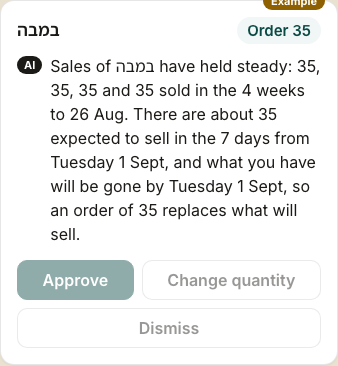
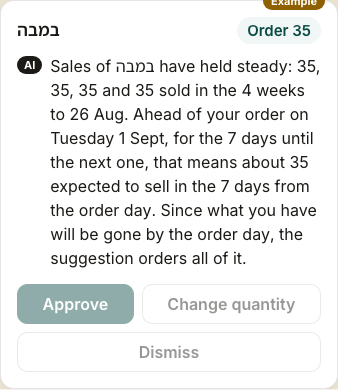
Redraw the F14 mockups on F14-S1's final phrases and fix the sample wording
The repository owner saw problems in the cards' text, and F14-S1 (b4a1285) settled its phrases:
- the date repeated: each phrase named its own, so the water card said "Sunday 30 Aug" three
  times. Only {next_order} carries it now ("your order on Sunday 30 Aug, for the 7 days until the
  next one"), every text uses it once, and the others say "the order day", in Hebrew and Arabic
  in the construct form (יום ההזמנה, يوم الطلب), never היום or اليوم, which the check reads as
  "today";
- Arabic لـ was glued to Hebrew names ("لـלחם אחיד"); the samples use لدى or مبيعات instead;
- "which covers 7 days" read as untrue beside a capped order, and a sentence going on after it
  lacked its closing comma; the phrase now ends "until the next one", and the English samples
  open "Ahead of" or "In" before it, so it never reads "for ... for".

Every sample is still HAND-WRITTEN, labelled so, and passes a scratch re-implementation of
FR-238 and Appendix A at b4a1285, which catches 15 planted failures and passes the 5 listed
exceptions. Each card's words were measured on screen in Hebrew and Arabic and read in order
from right to left.

Verified: npx vitest run, 721 passed; npm run lint clean.

diff --git a/src/pages/ReorderPage.jsx b/src/pages/ReorderPage.jsx
@@ -56,7 +56,8 @@ function slotPhrases(entry, window, t, language, dates) {
   const out = {
     product: entry.product_name || entry.barcode,
     quantity: t('reorder.ai.slot.quantity', { n: ev.quantity }),
-    expected: t('reorder.ai.slot.expected', { expected: one(ev.expected_sales), days: daysText(ev.cycle.days, language), day: dates.day(ev.cycle.first_day) }),
+    // Only {next_order} carries the date; the others say "the order day", so no text repeats it.
+    expected: t('reorder.ai.slot.expected', { expected: one(ev.expected_sales), days: daysText(ev.cycle.days, language) }),
     next_order: t('reorder.ai.slot.nextOrder', { day: dates.day(ev.order_day), days: daysText(ev.cycle.days, language) }),
   }
   if (ev.weekly_units?.length && window?.last_day) {
@@ -64,8 +65,8 @@ function slotPhrases(entry, window, t, language, dates) {
     out.weeks = t('reorder.ai.slot.weeks', { list, weeks: weeksText(ev.weekly_units.length, language), date: dates.short(window.last_day) })
   }
   if (ev.kind === 'net' && ev.stock_at_order_day != null) {
-    if (ev.stock_at_order_day > 0.05) out.left = t('reorder.ai.slot.left', { left: one(ev.stock_at_order_day), day: dates.day(ev.order_day) })
-    else out.runs_out = t('reorder.ai.slot.runsOut', { day: dates.day(ev.order_day) })
+    if (ev.stock_at_order_day > 0.05) out.left = t('reorder.ai.slot.left', { left: one(ev.stock_at_order_day) })
+    else out.runs_out = t('reorder.ai.slot.runsOut')
   }
   if (ev.capped && ev.shelf_life?.days) out.capped = t('reorder.ai.slot.capped', { days: daysText(ev.shelf_life.days, language) })
   return out

diff --git a/src/lib/i18n/dictionaries/he.js b/src/lib/i18n/dictionaries/he.js
@@ -604,11 +604,11 @@ export const he = {
   'reorder.capped': "רק מה שנמכר תוך {days}, לפני שהוא מתקלקל.",
   // F14 (MOCKUP, F14-S1 FR-238, FR-243; not approved). See en.js.
   'reorder.ai.slot.quantity': "הזמנה של {n}",
-  'reorder.ai.slot.expected': "צפי מכירות של בערך {expected} במשך {days} החל מ{day}",
+  'reorder.ai.slot.expected': "צפי מכירות של בערך {expected} במשך {days} החל מיום ההזמנה",
   'reorder.ai.slot.weeks': "{list} נמכרו במשך {weeks} עד {date}",
-  'reorder.ai.slot.nextOrder': "ההזמנה שלך ב{day}, שמכסה {days}",
-  'reorder.ai.slot.left': "בערך {left} שעוד יהיו על המדף ב{day}",
-  'reorder.ai.slot.runsOut': "מה שיש לך ייגמר עד {day}",
+  'reorder.ai.slot.nextOrder': "ההזמנה שלך ב{day}, למשך {days} עד ההזמנה הבאה",
+  'reorder.ai.slot.left': "בערך {left} שעוד יהיו על המדף ביום ההזמנה",
+  'reorder.ai.slot.runsOut': "מה שיש לך ייגמר עד יום ההזמנה",
   'reorder.ai.slot.capped': "רק מה שנמכר תוך {days}, לפני שהוא מתקלקל",
   'reorder.ai.note.what': "בינה מלאכותית כותבת את ההסבר של כל כרטיס מתוך הנתונים של אותה הצעה. היא מסבירה את הכמות ואינה משנה אותה.",
   'reorder.ai.note.some': "הלילה הבינה המלאכותית הסבירה {n} מתוך {total} הצעות. כרטיס שלא הוסבר מציג את המשפט של המנוע.",

diff --git a/src/lib/i18n/dictionaries/ar.js b/src/lib/i18n/dictionaries/ar.js
@@ -609,11 +609,11 @@ export const ar = {
   'reorder.capped': "فقط ما يُباع خلال {days}، قبل أن يتلف.",
   // F14 (MOCKUP, F14-S1 FR-238, FR-243; not approved). See en.js.
   'reorder.ai.slot.quantity': "طلبية من {n}",
-  'reorder.ai.slot.expected': "مبيعات متوقَّعة بنحو {expected} خلال {days} ابتداءً من يوم {day}",
+  'reorder.ai.slot.expected': "مبيعات متوقَّعة بنحو {expected} خلال {days} ابتداءً من يوم الطلب",
   'reorder.ai.slot.weeks': "{list} بيعت خلال {weeks} حتى {date}",
-  'reorder.ai.slot.nextOrder': "طلبك يوم {day}، الذي يغطي {days}",
-  'reorder.ai.slot.left': "نحو {left} ستبقى على الرف يوم {day}",
-  'reorder.ai.slot.runsOut': "سينفد ما لديك قبل يوم {day}",
+  'reorder.ai.slot.nextOrder': "طلبك يوم {day}، لمدة {days} حتى الطلب التالي",
+  'reorder.ai.slot.left': "نحو {left} ستبقى على الرف يوم الطلب",
+  'reorder.ai.slot.runsOut': "سينفد ما لديك قبل يوم الطلب",
   'reorder.ai.slot.capped': "فقط ما يُباع خلال {days}، قبل أن يتلف",
   'reorder.ai.note.what': "يكتب ذكاء اصطناعي شرح كل بطاقة من معطيات ذلك الاقتراح. يشرح الكمية ولا يغيّرها.",
   'reorder.ai.note.some': "الليلة شرح الذكاء الاصطناعي {n} من {total} اقتراحات. البطاقة التي لم يشرحها تعرض جملة المحرّك.",

diff --git a/src/lib/i18n/dictionaries/en.js b/src/lib/i18n/dictionaries/en.js
@@ -606,11 +606,11 @@ export const en = {
   // F14 (MOCKUP, F14-S1 FR-238, FR-243; not approved): the AI's explanation on a card. The model writes
   // slots, and each is filled with a phrase that carries one published fact and says what it is and when.
   'reorder.ai.slot.quantity': "an order of {n}",
-  'reorder.ai.slot.expected': "about {expected} expected to sell in the {days} from {day}",
+  'reorder.ai.slot.expected': "about {expected} expected to sell in the {days} from the order day",
   'reorder.ai.slot.weeks': "{list} sold in the {weeks} to {date}",
-  'reorder.ai.slot.nextOrder': "your order on {day}, which covers {days}",
-  'reorder.ai.slot.left': "about {left} left on {day}",
-  'reorder.ai.slot.runsOut': "what you have will be gone by {day}",
+  'reorder.ai.slot.nextOrder': "your order on {day}, for the {days} until the next one",
+  'reorder.ai.slot.left': "about {left} left on the order day",
+  'reorder.ai.slot.runsOut': "what you have will be gone by the order day",
   'reorder.ai.slot.capped': "only what sells in {days}, before it spoils",
   'reorder.ai.note.what': "An AI writes each card's explanation from that suggestion's facts. It explains the quantity and does not change it.",
   'reorder.ai.note.some': "Tonight the AI explained {n} of {total} suggestions. A card it did not explain shows the engine's sentence.",

diff --git a/docs/reviews/F14-screens-mockups.md b/docs/reviews/F14-screens-mockups.md
@@ -3,7 +3,7 @@ ID: F14-S1-SCREENS-MOCKUPS
 Title: The AI's explanation on every order suggestion (D-40) — mockups for the repository owner's approval
 Status: Proposal — for the repository owner's approval; nothing here is approved or merged
 Owner: smartshelf-engineer
-Parent: [F14-S1](../features/F14-decision-explanations/specs/F14-S1-decision-explanations.md) v0.1 (Ready for review, branch `docs/f14-spec`), C-79, OQ-1403
+Parent: [F14-S1](../features/F14-decision-explanations/specs/F14-S1-decision-explanations.md) v0.1 at b4a1285 (Ready for review, branch `docs/f14-spec`), C-79, OQ-1403
 Inputs: [D-29, D-40, F14-S1 FR-238, FR-242, FR-243, FR-244, Appendix A, docs/reviews/F8-screens-mockups.md, docs/reviews/F12-screens-mockups.md]
 Updated: 2026-10-10
 ---
@@ -19,7 +19,8 @@ you are asked to decide. Nothing here is merged or shown to a store until you ap
 - **the shop is Reorder's marked example** (D-29), the test shop, not any store's data;
 - **every explanation is HAND-WRITTEN SAMPLE WORDING, not the model's.** The model has never been
   asked: no store sends daily sales (D-23), and the model key is not set up. Each sample was written
-  around the slots only, and each passes F14-S1's mechanical check (FR-238, Appendix A): no number
+  around the slots only, and each passes F14-S1's mechanical check as the spec states it at b4a1285
+  (FR-238, Appendix A), run by a scratch re-implementation of it: no number
   of any kind outside the slots, in digits or in words, no "tomorrow", no %, no ₪, no product name.
   The samples were given to the page only while these pictures were taken. They are not in the
   app's data, and not in the example file;
@@ -46,8 +47,10 @@ you are asked to decide. Nothing here is merged or shown to a store until you ap
    There is no note when there are no suggestions, or while Reorder waits for daily sales.
 3. **The phrases that carry the figures** (FR-238, C-79), in the three languages (table below).
    The AI writes no number. It writes a slot such as `{left}`, and the page puts in a phrase like
-   "about 3 left on Sunday 30 Aug". The Hebrew and Arabic phrases are new, proposed here.
-4. **Three things the pictures show that you may want changed** (see "What the pictures show").
+   "about 3 left on the order day". Only `{next_order}` carries the date ("your order on Sunday
+   30 Aug, for the 7 days until the next one"), and every explanation names it once. The Hebrew and Arabic
+   phrases are new, proposed here.
+4. **What the pictures showed, and what changed because of it** (see "What the pictures show").
 
 ## The screens
 
@@ -98,19 +101,26 @@ tonight. Both show the engine's sentence, as the note says.
 
 ## What the pictures show
 
-1. **A text that uses several slots repeats the date.** Each phrase names its own period, so that
-   no figure is read against the wrong days (FR-238). On מים, `{next_order}`, `{expected}` and
-   `{runs_out}` each say "Sunday 30 Aug", so the date appears three times. The prompt could steer the
-   model away from `{next_order}` when `{expected}` already names the days, or the phrases could be
-   shortened. That is a change to F14-S1, if you want it.
+1. **The date repeated (changed).** In the first drawing each phrase named its own date, so a text
+   using `{next_order}`, `{expected}` and `{runs_out}` said "Sunday 30 Aug" three times. Now only
+   `{next_order}` carries the date, every text names it once, and the other phrases say "the order
+   day", in Hebrew and Arabic in the construct form (יום ההזמנה, يوم الطلب), never היום or اليوم,
+   which the check refuses as "today". F14-S1 takes this change.
 2. **Hebrew and Arabic cannot agree with the product.** The model is never sent the product's name
    (FR-236), and one text may serve another product of the same department (FR-239), so it cannot
    know whether the name is masculine, feminine or plural. The samples are written around that,
-   with "the sales of {product}" (המכירות של / مبيعات) rather than "{product} sells". The prompt
-   would have to ask the model for the same.
-3. **The weeks' figures in Hebrew and Arabic.** `{weeks}` lists each week's units, oldest first. In
-   this test shop every week sold the same, so the pictures cannot show whether a list of different
-   figures reads in the right order from right to left. That is checked when the page is built.
+   with "the sales of {product}" (המכירות של / مبيعات) or "{product} has" (ל… יש / لدى) rather than
+   "{product} sells". F14-S1's prompt asks the model for the same.
+3. **Arabic "لـ" before a Hebrew name (changed).** The first samples wrote لـ{product}, which
+   leaves the Arabic letter hanging before a Hebrew name ("لـלחם אחיד"). The samples now use
+   لدى or مبيعات before the name, and never join a letter to it.
+4. **"Your order on …" says "for the 7 days until the next one" (changed).** It said "which covers
+   7 days", which read as untrue beside a capped order (bread covers 2 days, not 7). The English
+   samples open with "Ahead of" or "In" before it, never "For", so it never reads "for … for".
+5. **The weeks' figures in Hebrew and Arabic.** `{weeks}` lists each week's units, oldest first. In
+   this test shop every week sold the same, so the pictures cannot show a list of different figures.
+   Each card's words were measured on screen and read in the right order from right to left; a list
+   of different figures is checked when the page is built.
 
 ## The words
 
@@ -132,11 +142,11 @@ days, and its date format. `{runs_out}` and `{capped}` are the card's own senten
 | Slot | English | עברית | العربية |
 |---|---|---|---|
 | `{quantity}` | an order of {n} | הזמנה של {n} | طلبية من {n} |
-| `{expected}` | about {expected} expected to sell in the {days} from {day} | צפי מכירות של בערך {expected} במשך {days} החל מ{day} | مبيعات متوقَّعة بنحو {expected} خلال {days} ابتداءً من يوم {day} |
+| `{expected}` | about {expected} expected to sell in the {days} from the order day | צפי מכירות של בערך {expected} במשך {days} החל מיום ההזמנה | مبيعات متوقَّعة بنحو {expected} خلال {days} ابتداءً من يوم الطلب |
 | `{weeks}` | {list} sold in the {weeks} to {date} | {list} נמכרו במשך {weeks} עד {date} | {list} بيعت خلال {weeks} حتى {date} |
-| `{next_order}` | your order on {day}, which covers {days} | ההזמנה שלך ב{day}, שמכסה {days} | طلبك يوم {day}، الذي يغطي {days} |
-| `{left}` | about {left} left on {day} | בערך {left} שעוד יהיו על המדף ב{day} | نحو {left} ستبقى على الرف يوم {day} |
-| `{runs_out}` | what you have will be gone by {day} | מה שיש לך ייגמר עד {day} | سينفد ما لديك قبل يوم {day} |
+| `{next_order}` | your order on {day}, for the {days} until the next one | ההזמנה שלך ב{day}, למשך {days} עד ההזמנה הבאה | طلبك يوم {day}، لمدة {days} حتى الطلب التالي |
+| `{left}` | about {left} left on the order day | בערך {left} שעוד יהיו על המדף ביום ההזמנה | نحو {left} ستبقى على الرف يوم الطلب |
+| `{runs_out}` | what you have will be gone by the order day | מה שיש לך ייגמר עד יום ההזמנה | سينفد ما لديك قبل يوم الطلب |
 | `{capped}` | only what sells in {days}, before it spoils | רק מה שנמכר תוך {days}, לפני שהוא מתקלקל | فقط ما يُباع خلال {days}، قبل أن يتلف |
 | `{product}` | the product's name | שם המוצר | اسم المنتج |
 
@@ -146,9 +156,9 @@ Written only to draw the cards. The model's own texts will differ. Each passes F
 
 | Card | English | עברית | العربية |
 |---|---|---|---|
-| במבה | Sales of {product} have held steady: {weeks}. There are {expected}, and {runs_out}, so {quantity} replaces what will sell. | המכירות של {product} יציבות: {weeks}. יש {expected}, ו{runs_out}, ולכן {quantity} מחליפה את מה שיימכר. | مبيعات {product} ثابتة: {weeks}. هناك {expected}، و{runs_out}، لذلك {quantity} تعوّض ما سيُباع. |
-| ביסלי גריל | Sales of {product} are the same every week: {weeks}. Your stock count could not be used, so {quantity} rests on sales alone, with {expected}. | המכירות של {product} זהות בכל שבוע: {weeks}. לא ניתן היה להשתמש בספירת המלאי, ולכן {quantity} נשענת על המכירות בלבד, עם {expected}. | مبيعات {product} متساوية كل أسبوع: {weeks}. لم يكن ممكنًا استخدام جرد مخزونك، لذلك تعتمد {quantity} على المبيعات وحدها، مع {expected}. |
-| לחם אחיד | There are {expected} for {product}, but the shelf life is short, so {quantity} is {capped}, and {runs_out}. | יש {expected} עבור {product}, אבל חיי המדף קצרים, ולכן {quantity} היא {capped}, ו{runs_out}. | هناك {expected} لـ{product}، لكن مدة الصلاحية قصيرة، لذلك {quantity} هي {capped}، و{runs_out}. |
-| פיתות | Sales of {product} outpace the shelf life: there are {expected}. So {quantity} is {capped}, and {runs_out}. | המכירות של {product} מהירות יותר מחיי המדף: יש {expected}. לכן {quantity} היא {capped}, ו{runs_out}. | مبيعات {product} أسرع من مدة الصلاحية: هناك {expected}. لذلك {quantity} هي {capped}، و{runs_out}. |
-| מים | For {next_order}, {product} has {expected}, and {runs_out}. So {quantity} is what will sell. | עבור {next_order}, ל{product} יש {expected}, ו{runs_out}. לכן {quantity} היא מה שיימכר. | لـ{next_order}، لدى {product} {expected}، و{runs_out}. لذلك {quantity} هي ما سيُباع. |
-| קולה | There are {expected} for {product}, and {left}. So {quantity} adds only what the shelf will lack. | יש {expected} עבור {product}, ו{left}. לכן {quantity} משלימה רק את מה שיחסר על המדף. | هناك {expected} لـ{product}، و{left}. لذلك {quantity} تكمل فقط ما سينقص على الرف. |
+| במבה | Sales of {product} have held steady: {weeks}. Ahead of {next_order}, that means {expected}. Since {runs_out}, the suggestion orders all of it. | המכירות של {product} יציבות: {weeks}. עבור {next_order}, המשמעות היא {expected}. מכיוון ש{runs_out}, ההצעה מזמינה את כל הכמות הזאת. | مبيعات {product} ثابتة: {weeks}. وبالنسبة إلى {next_order}، يعني ذلك {expected}. وبما أنه {runs_out}، يطلب الاقتراح الكمية كلها. |
+| ביסלי גריל | Sales of {product} are the same every week: {weeks}. Your stock count could not be used, so in {next_order}, the suggestion rests on sales alone: {expected}. | המכירות של {product} זהות בכל שבוע: {weeks}. לא ניתן היה להשתמש בספירת המלאי, ולכן עבור {next_order}, ההצעה נשענת על המכירות בלבד: {expected}. | مبيعات {product} متساوية كل أسبوع: {weeks}. لم يكن ممكنًا استخدام جرد مخزونك، لذلك بالنسبة إلى {next_order}، يعتمد الاقتراح على المبيعات وحدها: {expected}. |
+| לחם אחיד | {product} has {expected}, but the shelf life is short. So in {next_order}, the suggestion is {capped}. And {runs_out}. | ל{product} יש {expected}, אבל חיי המדף קצרים. לכן עבור {next_order}, ההצעה היא {capped}. ו{runs_out}. | لدى {product} {expected}، لكن مدة الصلاحية قصيرة. لذلك بالنسبة إلى {next_order}، الاقتراح هو {capped}. و{runs_out}. |
+| פיתות | Sales of {product} outpace the shelf life: there are {expected}. In {next_order}, the suggestion is {capped}, and {runs_out}. | המכירות של {product} מהירות יותר מחיי המדף: יש {expected}. עבור {next_order}, ההצעה היא {capped}, ו{runs_out}. | مبيعات {product} أسرع من مدة الصلاحية: هناك {expected}. وبالنسبة إلى {next_order}، الاقتراح هو {capped}، و{runs_out}. |
+| מים | Ahead of {next_order}, {product} has {expected}. Since {runs_out}, the suggestion replaces all of it. | עבור {next_order}, ל{product} יש {expected}. מכיוון ש{runs_out}, ההצעה מחליפה את כל הכמות הזאת. | بالنسبة إلى {next_order}، لدى {product} {expected}. وبما أنه {runs_out}، يعوّض الاقتراح الكمية كلها. |
+| קולה | Ahead of {next_order}, {product} has {expected}, and {left}. So the suggestion orders only what the shelf will lack. | עבור {next_order}, ל{product} יש {expected}, ו{left}. לכן ההצעה מזמינה רק את מה שיחסר על המדף. | بالنسبة إلى {next_order}، لدى {product} {expected}، و{left}. لذلك يطلب الاقتراح فقط ما سينقص على الرف. |
